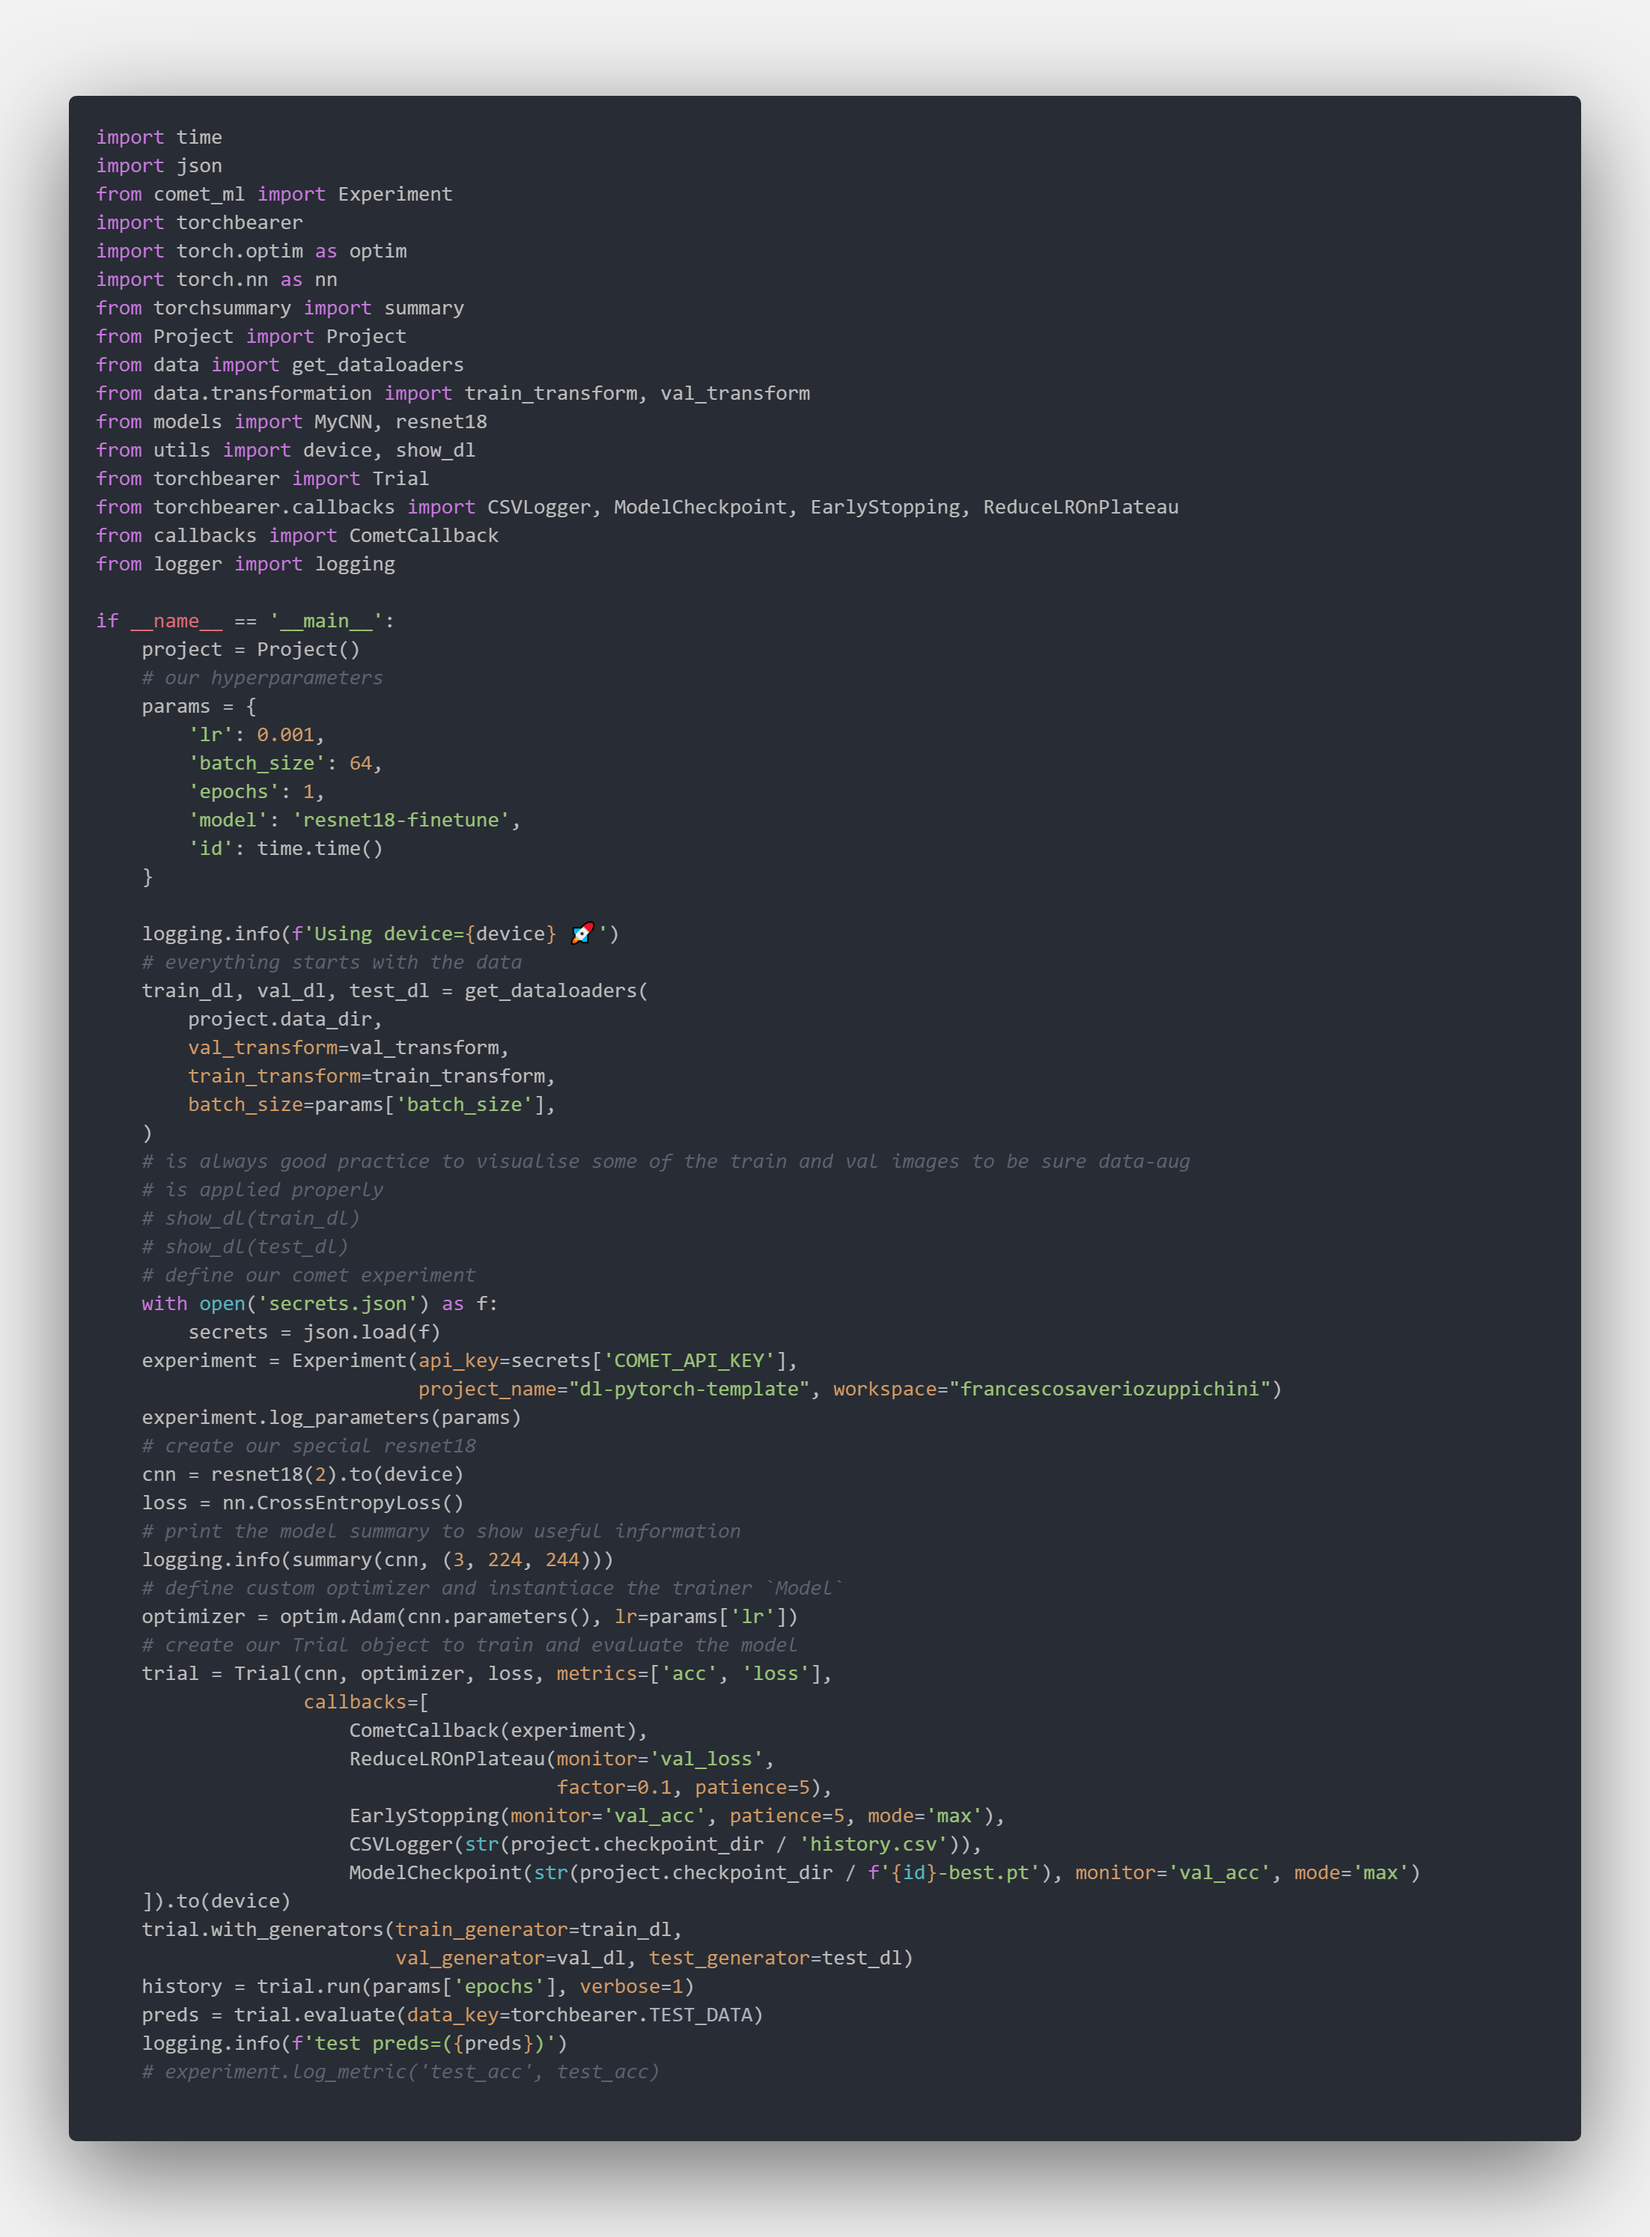
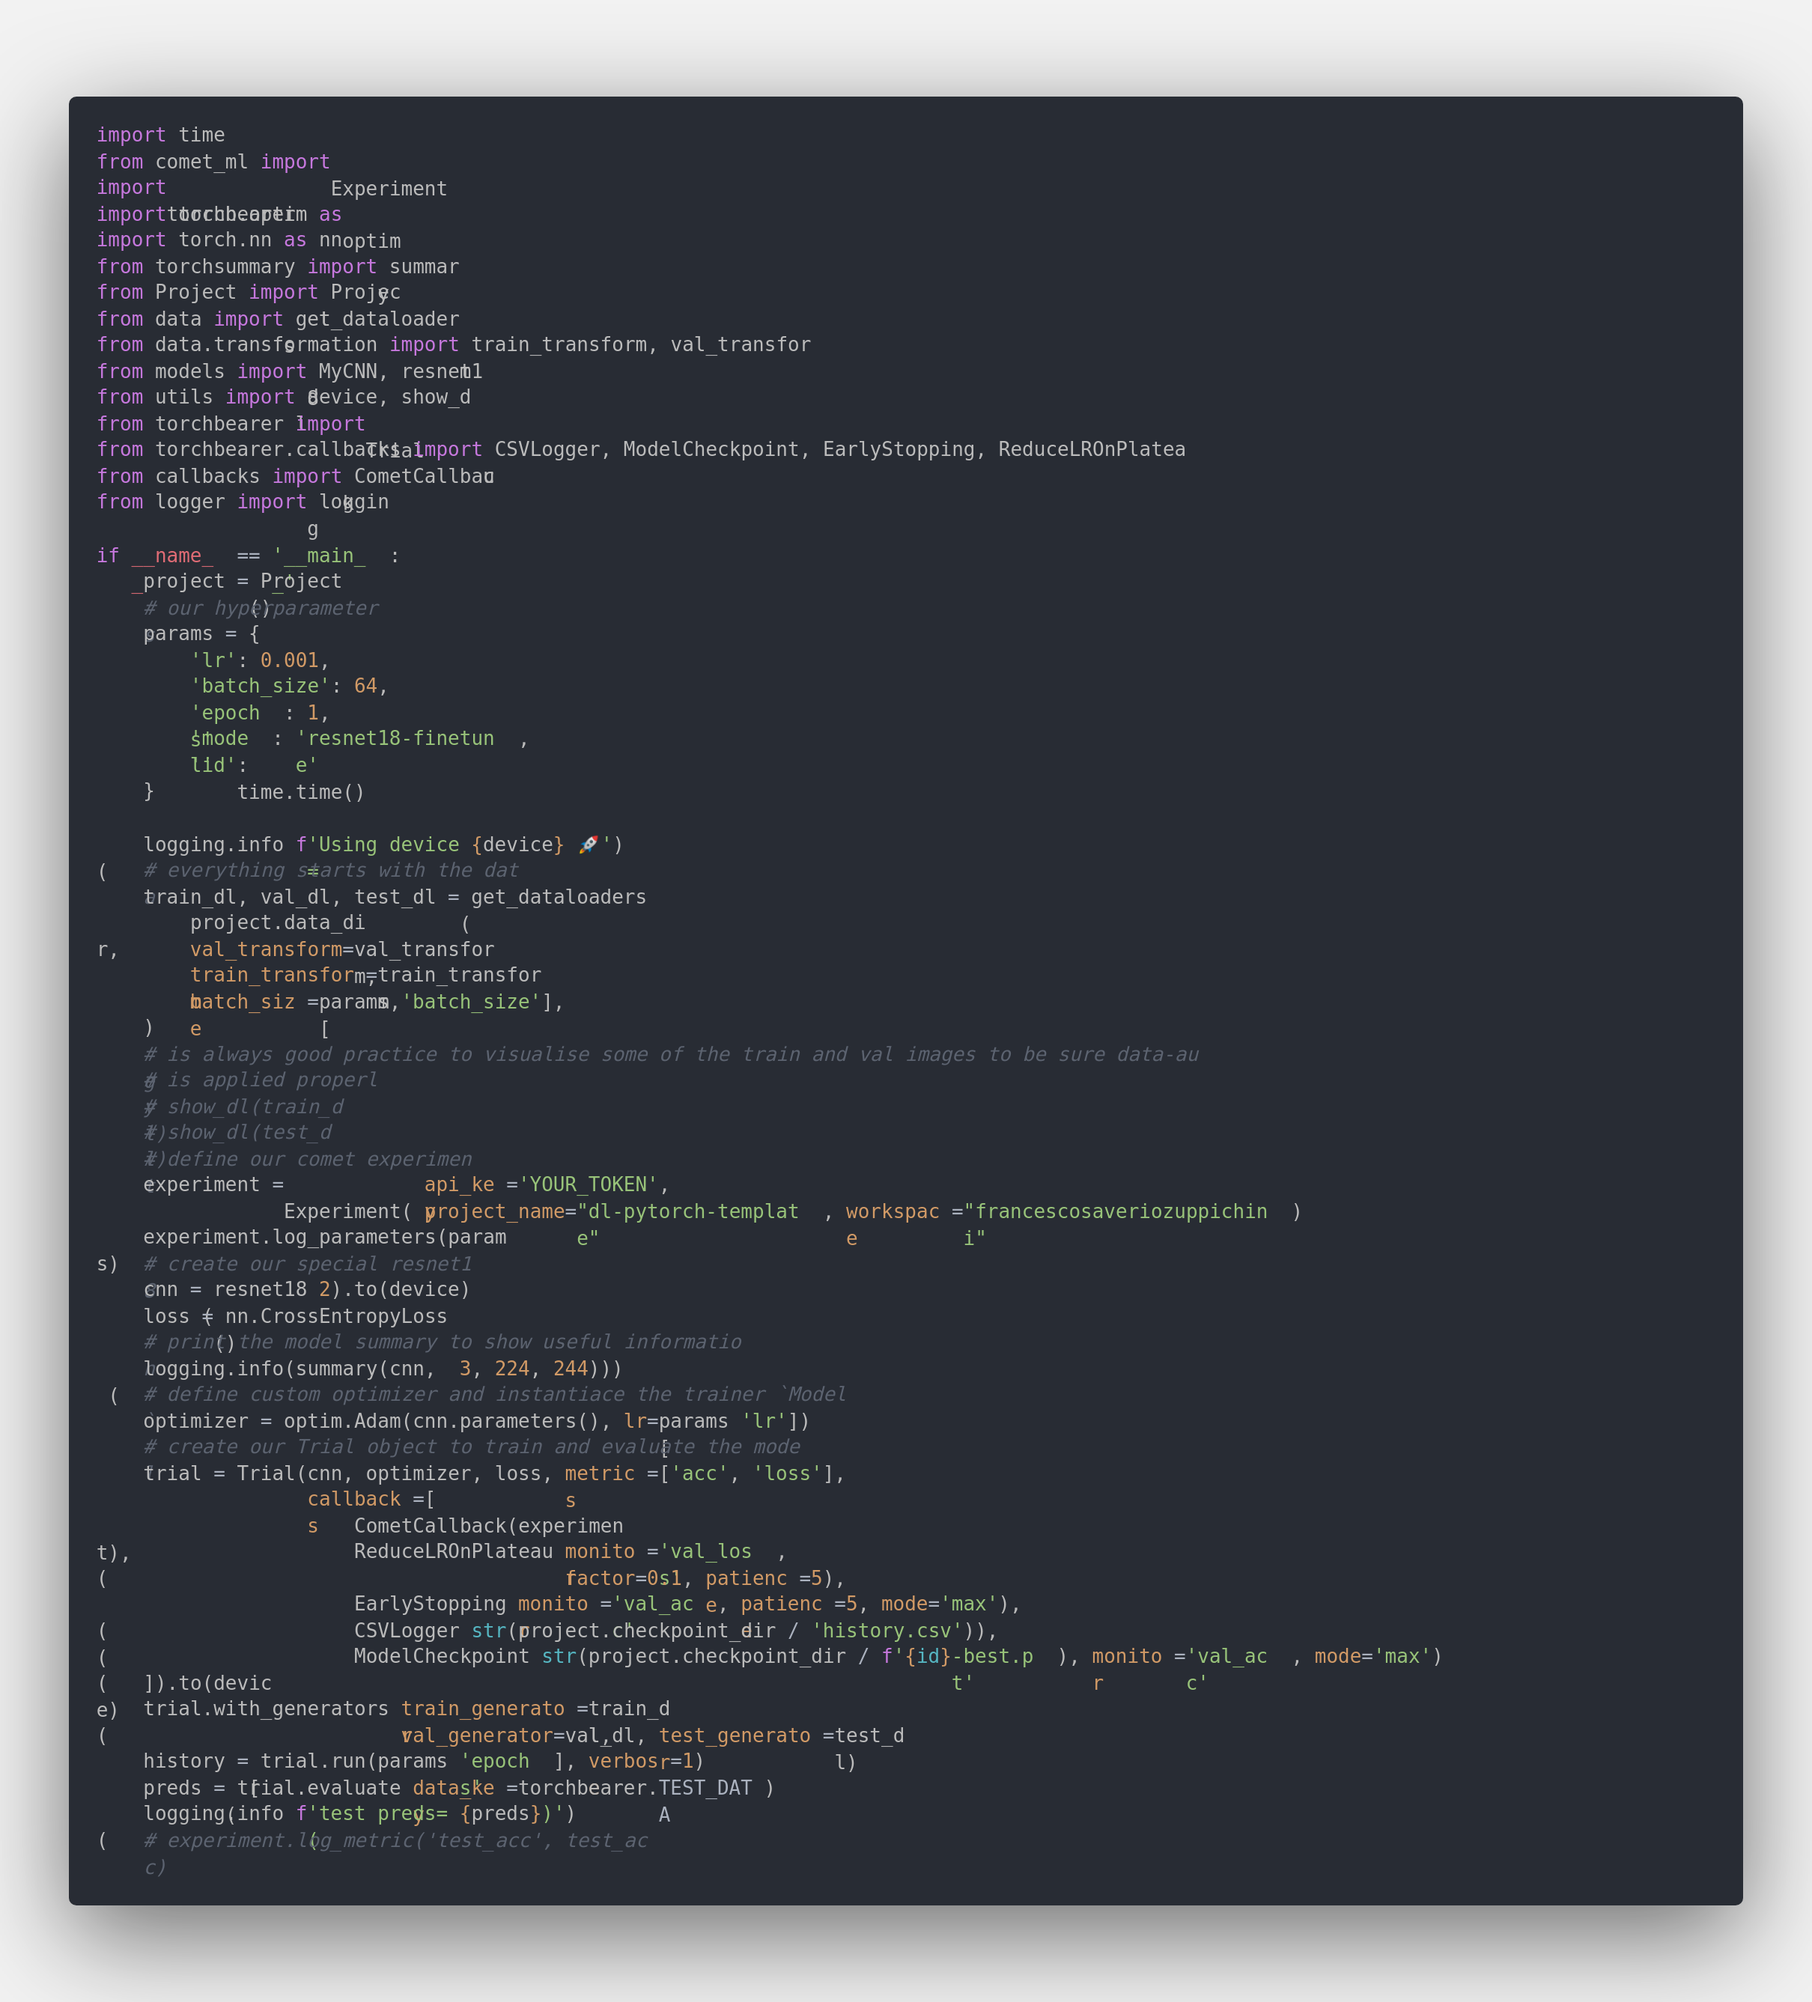
gitflow-feature-stash: doc

diff --git a/main.py b/main.py
@@ -1,5 +1,4 @@
 import time
-import json
 from comet_ml import Experiment
 import torchbearer
 import torch.optim as optim
@@ -39,9 +38,7 @@ if __name__ == '__main__':
     # show_dl(train_dl)
     # show_dl(test_dl)
     # define our comet experiment
-    with open('secrets.json') as f: 
-        secrets = json.load(f)
-    experiment = Experiment(api_key=secrets['COMET_API_KEY'],
+    experiment = Experiment(api_key='8THqoAxomFyzBgzkStlY95MOf',
                             project_name="dl-pytorch-template", workspace="francescosaveriozuppichini")
     experiment.log_parameters(params)
     # create our special resnet18
